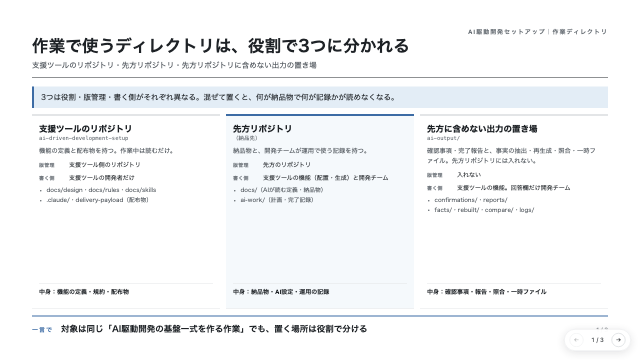
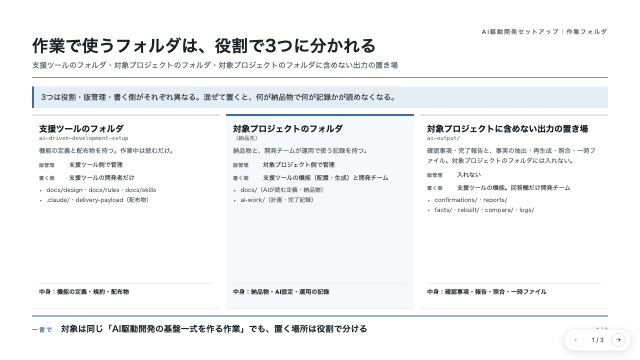
【修正】作業フォルダ配置の解説スライドの用語を統一する（先方→対象プロジェクト、リポジトリ・ディレクトリ→フォルダ）

diff --git a/slides/作業ディレクトリ配置-3種比較/解説スライド.html b/slides/作業ディレクトリ配置-3種比較/解説スライド.html
@@ -3,12 +3,12 @@
 <head>
 <meta charset="utf-8">
 <meta name="viewport" content="width=device-width, initial-scale=1">
-<title>作業ディレクトリと出力の配置</title>
+<title>作業フォルダと出力の配置</title>
 <style>
   :root{ --accent-soft:#E3EDF6; --focus-bg:#F5F9FC; }
   .mono{ font-family: "SF Mono", "Cascadia Code", Consolas, Menlo, monospace; }
 
-  /* P1: 3カラムのディレクトリ比較カード */
+  /* P1: 3カラムのフォルダ比較カード */
   .thesis{ margin:18px 0 12px; padding:10px 14px; border-left:4px solid var(--accent); background:var(--accent-soft); font-size:15px; line-height:1.5; }
   .dirs{ display:grid; grid-template-columns:repeat(3,1fr); gap:12px; flex:1; min-height:0; }
   .dir{ display:flex; flex-direction:column; gap:8px; padding:14px 14px 12px; border-top:4px solid var(--faint); border-bottom:1px solid var(--faint); background:var(--surface); }
@@ -64,16 +64,16 @@
 
   <section class="slide-page is-active" data-slide-page="1">
     <header class="slide-header">
-      <span class="kicker">AI駆動開発セットアップ｜<wbr>作業ディレクトリ</span>
-      <h1 class="slide-title">作業で<wbr>使うディレクトリは、<wbr>役割で<wbr>3つに分かれる</h1>
-      <p class="slide-subtitle">支援ツールのリポジトリ・<wbr>先方リポジトリ・<wbr>先方リポジトリに<wbr>含めない出力の<wbr>置き場</p>
+      <span class="kicker">AI駆動開発セットアップ｜<wbr>作業フォルダ</span>
+      <h1 class="slide-title">作業で<wbr>使うフォルダは、<wbr>役割で<wbr>3つに分かれる</h1>
+      <p class="slide-subtitle">支援ツールの<wbr>フォルダ・<wbr>対象プロジェクトの<wbr>フォルダ・<wbr>対象プロジェクトの<wbr>フォルダに<wbr>含めない出力の<wbr>置き場</p>
     </header>
     <p class="thesis">3つは役割・版管理・書く側がそれぞれ異なる。混ぜて置くと、何が納品物で何が記録かが読めなくなる。</p>
     <div class="dirs">
       <article class="dir">
-        <p class="dir-nm">支援ツールの<wbr>リポジトリ<span class="path">ai-driven-development-setup</span></p>
+        <p class="dir-nm">支援ツールの<wbr>フォルダ<span class="path">ai-driven-development-setup</span></p>
         <p class="dir-role">機能の定義と配布物を持つ。作業中は読むだけ。</p>
-        <div class="kv"><span class="kv-key">版管理</span><p class="kv-val">支援ツール側の<wbr>リポジトリ</p></div>
+        <div class="kv"><span class="kv-key">版管理</span><p class="kv-val">支援ツール側で<wbr>管理</p></div>
         <div class="kv"><span class="kv-key">書く側</span><p class="kv-val">支援ツールの<wbr>開発者だけ</p></div>
         <ul class="items">
           <li>docs/design・docs/rules・docs/skills</li>
@@ -82,9 +82,9 @@
         <p class="dir-gate">中身：<wbr>機能の<wbr>定義・<wbr>規約・<wbr>配布物</p>
       </article>
       <article class="dir focus">
-        <p class="dir-nm">先方リポジトリ<span class="path">（納品先）</span></p>
+        <p class="dir-nm">対象プロジェクトの<wbr>フォルダ<span class="path">（納品先）</span></p>
         <p class="dir-role">納品物と、開発チームが運用で使う記録を持つ。</p>
-        <div class="kv"><span class="kv-key">版管理</span><p class="kv-val">先方の<wbr>リポジトリ</p></div>
+        <div class="kv"><span class="kv-key">版管理</span><p class="kv-val">対象プロジェクト側で<wbr>管理</p></div>
         <div class="kv"><span class="kv-key">書く側</span><p class="kv-val">支援ツールの<wbr>機能（配置・生成）と<wbr>開発チーム</p></div>
         <ul class="items">
           <li>docs/（AIが読む定義・納品物）</li>
@@ -93,8 +93,8 @@
         <p class="dir-gate">中身：<wbr>納品物・<wbr>AI設定・<wbr>運用の記録</p>
       </article>
       <article class="dir">
-        <p class="dir-nm">先方に<wbr>含めない<wbr>出力の<wbr>置き場<span class="path">ai-output/</span></p>
-        <p class="dir-role">確認事項・完了報告と、事実の抽出・再生成・照合・一時ファイル。先方リポジトリには入れない。</p>
+        <p class="dir-nm">対象プロジェクトに<wbr>含めない<wbr>出力の<wbr>置き場<span class="path">ai-output/</span></p>
+        <p class="dir-role">確認事項・完了報告と、事実の抽出・再生成・照合・一時ファイル。対象プロジェクトのフォルダには入れない。</p>
         <div class="kv"><span class="kv-key">版管理</span><p class="kv-val">入れない</p></div>
         <div class="kv"><span class="kv-key">書く側</span><p class="kv-val">支援ツールの<wbr>機能。<wbr>回答欄だけ<wbr>開発チーム</p></div>
         <ul class="items">
@@ -113,8 +113,8 @@
 
   <section class="slide-page" data-slide-page="2">
     <header class="slide-header">
-      <span class="kicker">AI駆動開発セットアップ｜<wbr>先方リポジトリの中</span>
-      <h1 class="slide-title">先方リポジトリの中：<wbr>直下に<wbr>足すのは4種</h1>
+      <span class="kicker">AI駆動開発セットアップ｜<wbr>対象プロジェクトの<wbr>フォルダの中</span>
+      <h1 class="slide-title">対象プロジェクトの<wbr>フォルダの中：<wbr>直下に<wbr>足すのは4種</h1>
       <p class="slide-subtitle">docsには<wbr>AIが<wbr>読む定義だけを<wbr>置く。<wbr>記録と<wbr>確認事項は<wbr>別の場所に出す</p>
     </header>
     <div class="docs">
@@ -151,7 +151,7 @@
     </div>
     <div class="conclusion">
       <span class="c-label">一言で</span>
-      <span class="c-text">docsは<wbr>定義専用。<wbr>完了記録は<wbr>ai-work/、<wbr>確認事項は<wbr>先方の外（ai-output/）に出す</span>
+      <span class="c-text">docsは<wbr>定義専用。<wbr>完了記録は<wbr>ai-work/、<wbr>確認事項は<wbr>対象プロジェクトの<wbr>外（ai-output/）に出す</span>
       <span class="pageno">2 / 3</span>
     </div>
   </section>
@@ -159,14 +159,14 @@
   <section class="slide-page" data-slide-page="3">
     <header class="slide-header">
       <span class="kicker">AI駆動開発セットアップ｜<wbr>出力の<wbr>置き場</span>
-      <h1 class="slide-title">確認・<wbr>記録・<wbr>一時ファイルは、<wbr>先方リポジトリに<wbr>入れない</h1>
-      <p class="slide-subtitle">確認事項は<wbr>開発チームが<wbr>回答し、<wbr>支援ツールの<wbr>機能が<wbr>先方の<wbr>設計書へ<wbr>書き戻す</p>
+      <h1 class="slide-title">確認・<wbr>記録・<wbr>一時ファイルは、<wbr>対象プロジェクトのフォルダに<wbr>入れない</h1>
+      <p class="slide-subtitle">確認事項は<wbr>開発チームが<wbr>回答し、<wbr>支援ツールの<wbr>機能が<wbr>対象プロジェクトの<wbr>設計書へ<wbr>書き戻す</p>
     </header>
     <div class="docs">
       <div class="guide">
         <div class="g-row">
-          <div class="g-what"><span class="nm">ai-output/<wbr>&lt;先方の名前&gt;/<wbr>&lt;実行の識別子&gt;/</span></div>
-          <p class="g-mid">実行の識別子は日時とコミットハッシュから作る。先方リポジトリには入れず、版管理の対象外とする。</p>
+          <div class="g-what"><span class="nm">ai-output/<wbr>&lt;対象プロジェクト名&gt;/<wbr>&lt;実行の識別子&gt;/</span></div>
+          <p class="g-mid">実行の識別子は日時とコミットハッシュから作る。対象プロジェクトのフォルダには入れず、版管理の対象外とする。</p>
         </div>
         <div class="g-row">
           <div class="g-what"><span class="nm">confirmations/</span><span class="badge">開発チームが回答</span></div>
@@ -180,7 +180,7 @@
       <aside class="treebox">
         <span class="tree-label">ai-output の中</span>
         <p class="tree-title">確認事項・<wbr>報告・<wbr>照合の<wbr>置き場</p>
-        <pre class="mono">ai-output/&lt;先方&gt;/&lt;実行の識別子&gt;/
+        <pre class="mono">ai-output/&lt;対象プロジェクト&gt;/&lt;実行の識別子&gt;/
 ├── <span class="hot">confirmations/</span> <span class="dim">確認事項一覧・対象範囲の承認</span>
 ├── <span class="hot">reports/</span> <span class="dim">完了報告・納品物一覧の写し・検証の判定の要約</span>
 ├── <span class="hot">facts/</span> <span class="dim">原本コードから取り出した事実</span>
@@ -194,7 +194,7 @@
       <div class="flow-boxes">
         <div class="flow-box"><span class="fb-nm">支援ツールの機能</span><span class="fb-sub">確認事項一覧.mdを書く</span></div>
         <div class="flow-box"><span class="fb-nm">confirmations/<wbr>確認事項一覧.md</span><span class="fb-sub">開発チームが<wbr>回答欄を書く</span></div>
-        <div class="flow-box"><span class="fb-nm">先方の設計書</span><span class="fb-sub">支援ツールの<wbr>機能が<wbr>回答を<wbr>書き戻す</span></div>
+        <div class="flow-box"><span class="fb-nm">対象プロジェクトの<wbr>設計書</span><span class="fb-sub">支援ツールの<wbr>機能が<wbr>回答を<wbr>書き戻す</span></div>
       </div>
       <svg class="flow-svg" viewBox="0 0 1000 40" preserveAspectRatio="none" role="img" aria-label="確認事項が支援ツールの機能から開発チームへ渡り、回答が設計書へ戻る流れ">
         <path class="flow-arrow" d="M 166 14 L 500 14" marker-end="url(#fw-fwd-1)"></path>
@@ -213,7 +213,7 @@
     </div>
     <div class="conclusion">
       <span class="c-label">一言で</span>
-      <span class="c-text">回答の<wbr>途中経過は<wbr>先方に混ぜず、<wbr>書き戻した結果だけが<wbr>先方リポジトリに残る</span>
+      <span class="c-text">回答の<wbr>途中経過は<wbr>対象プロジェクトに混ぜず、<wbr>書き戻した結果だけが<wbr>対象プロジェクトの<wbr>フォルダに残る</span>
       <span class="pageno">3 / 3</span>
     </div>
   </section>

diff --git a/index.html b/index.html
@@ -1648,7 +1648,7 @@ const SLIDES = [
     "template": "",
     "date": "2026-09-03",
     "updated": "2026-09-04",
-    "updatedAt": "2026-09-04T18:26:01+09:00"
+    "updatedAt": "2026-09-04T19:03:35+09:00"
   },
   {
     "key": "AI駆動開発コンサル-業務要件",
@@ -1734,7 +1734,7 @@ const SLIDES = [
   },
   {
     "key": "作業ディレクトリ配置-3種比較",
-    "title": "作業ディレクトリと出力の配置",
+    "title": "作業フォルダと出力の配置",
     "purpose": "支援ツールのリポジトリ・先方リポジトリ・先方リポジトリに含めない出力の置き場という3つのディレクトリが役割・版管理・書く側で異なり、混ぜて置くと何が納品物で何が記録か読めなくなることを示す。",
     "target": "AI駆動開発基盤一式を作る作業で使う3つのディレクトリ（支援ツールのリポジトリ・先方リポジトリ・先方リポジトリに含めない出力の置き場）の役割分担",
     "problems": "記録・確認事項・納品物の置き場が決まっておらず、何が納品物で何が記録か読めなくなる",
@@ -1756,7 +1756,7 @@ const SLIDES = [
     "template": "",
     "date": "2026-09-03",
     "updated": "2026-09-04",
-    "updatedAt": "2026-09-04T09:39:44+09:00"
+    "updatedAt": "2026-09-04T09:56:37+09:00"
   }
 ];
 const PACKS = [

diff --git a/slides/作業ディレクトリ配置-3種比較/検査記録.md b/slides/作業ディレクトリ配置-3種比較/検査記録.md
@@ -1,0 +1,5 @@
+# 検査記録: 作業ディレクトリ配置-3種比較
+
+## 反復記録
+
+1. 2026-09-04 ユーザー指摘により用語統一を実施（「先方」→「対象プロジェクト」、「リポジトリ」「ディレクトリ」→「フォルダ」）。CSS のクラス名・セレクタ・フォルダ名・URL は変更対象外
